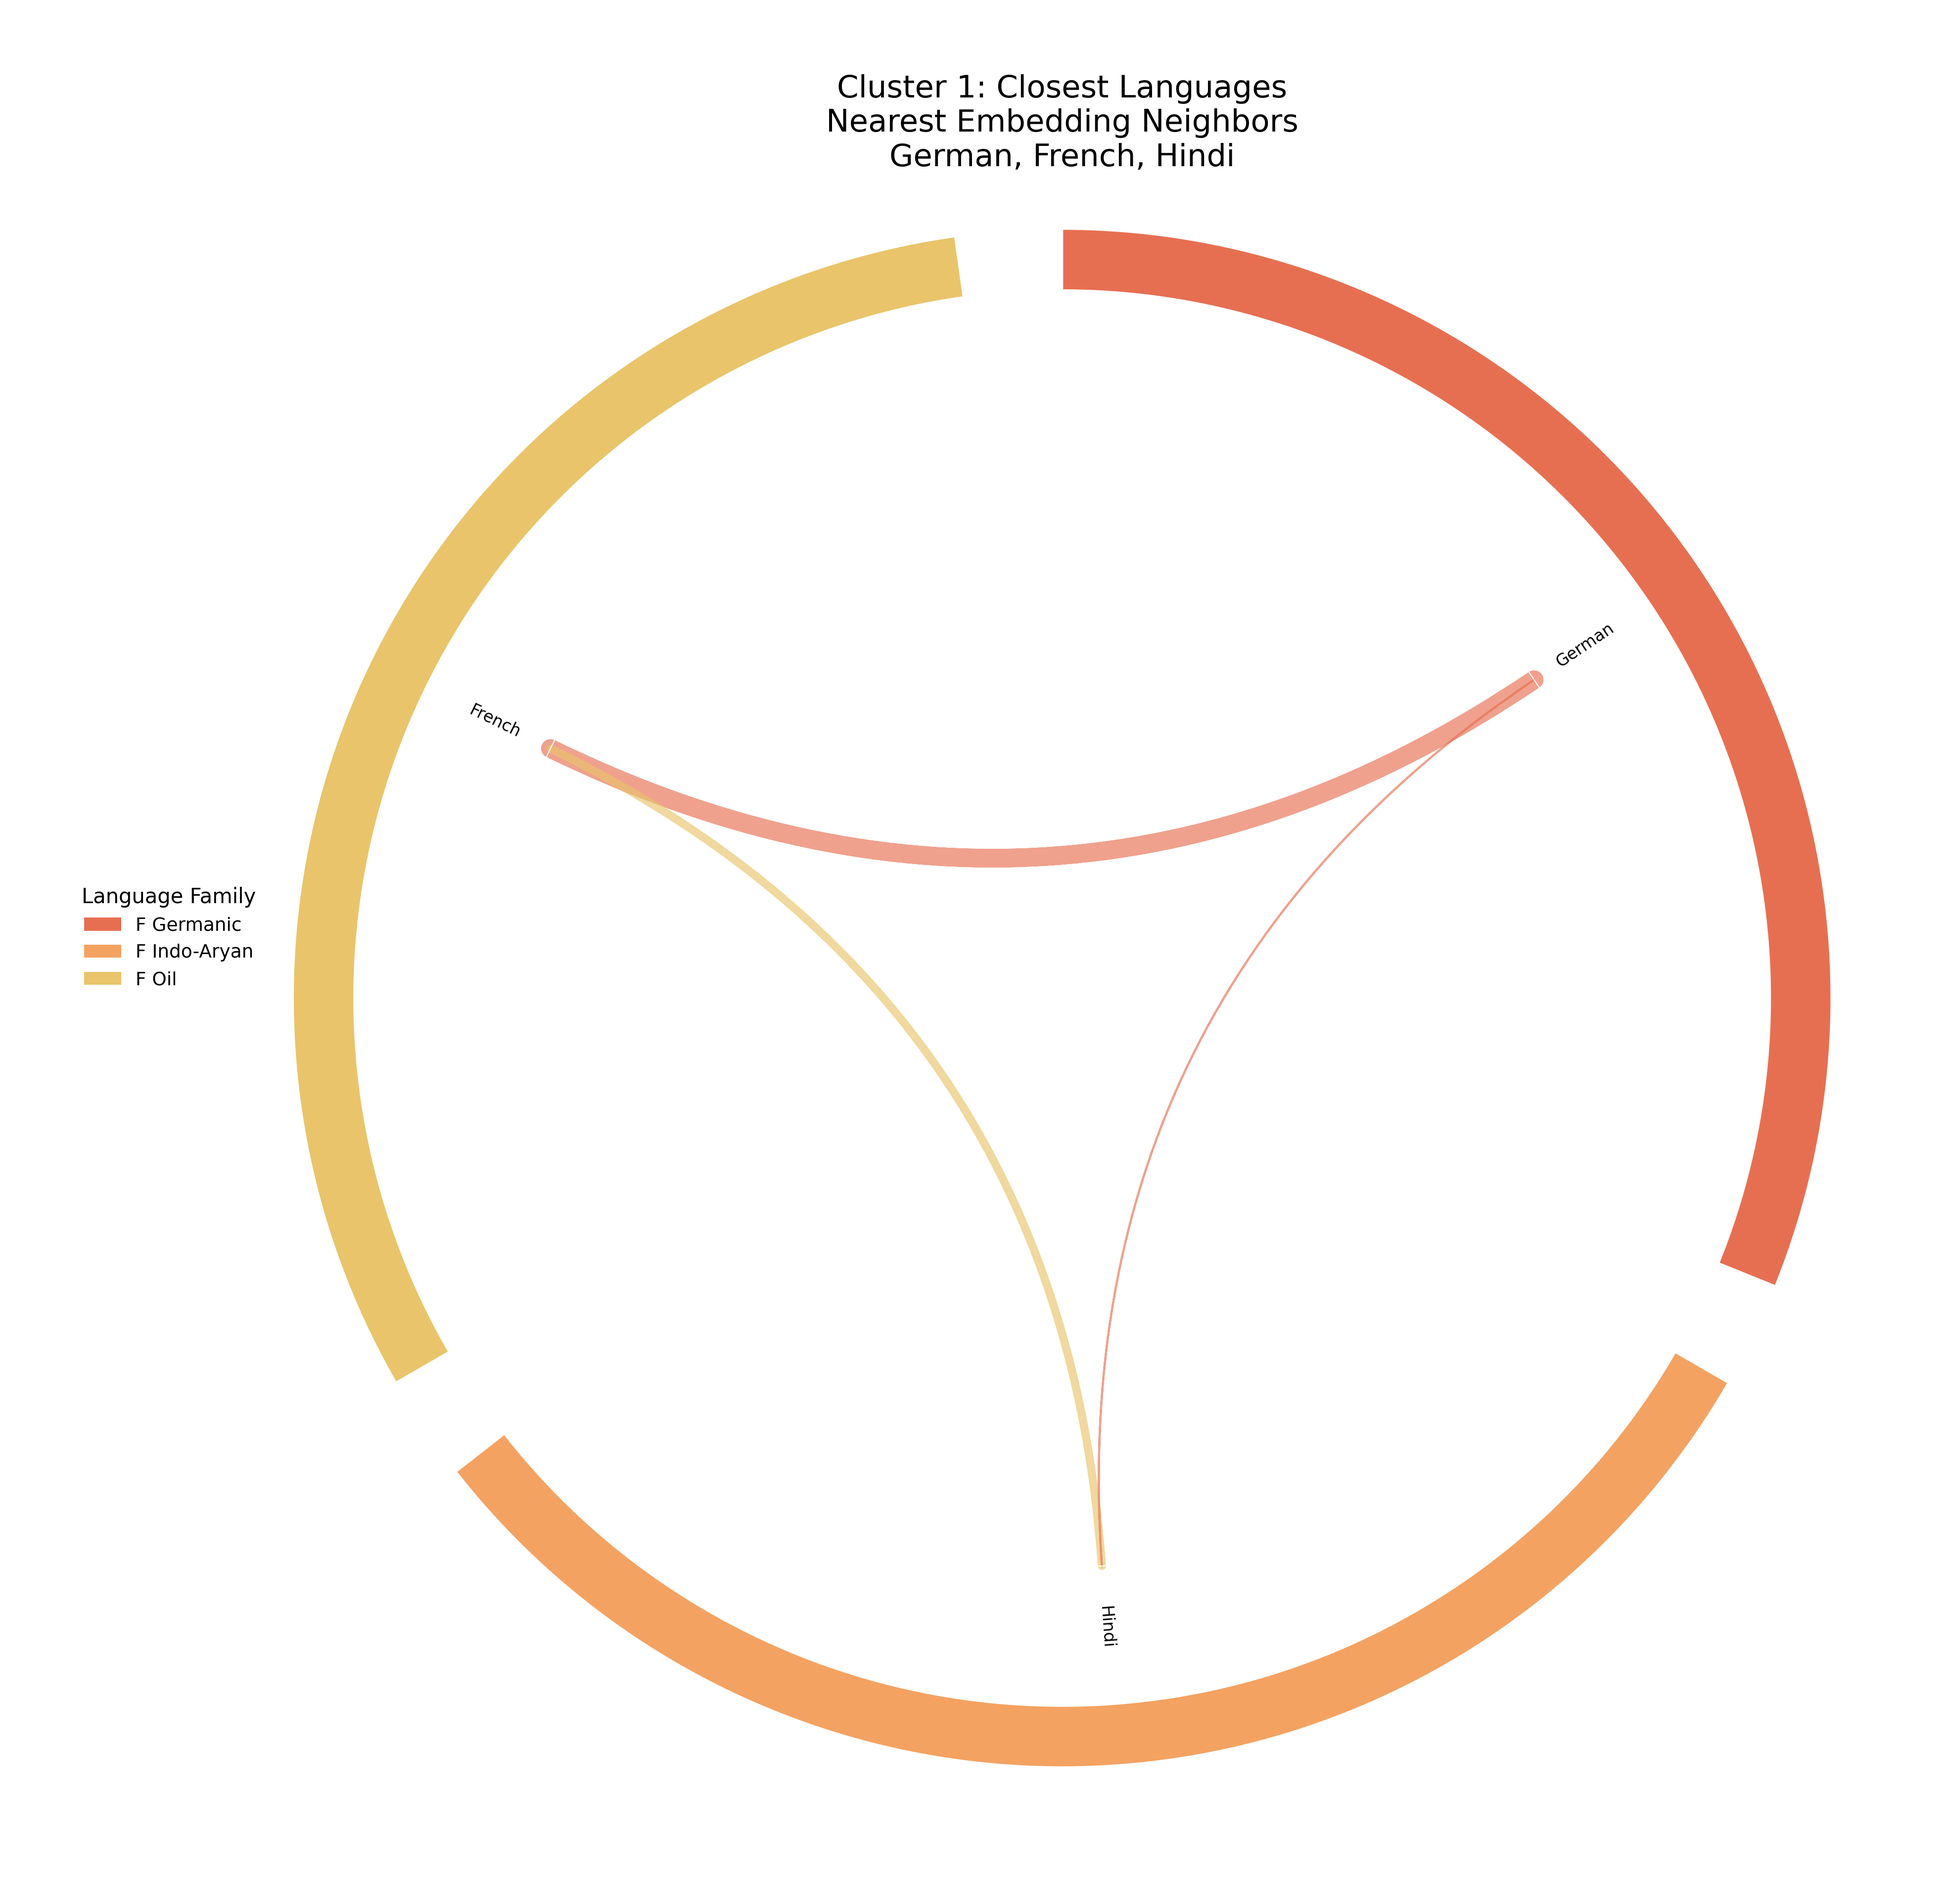
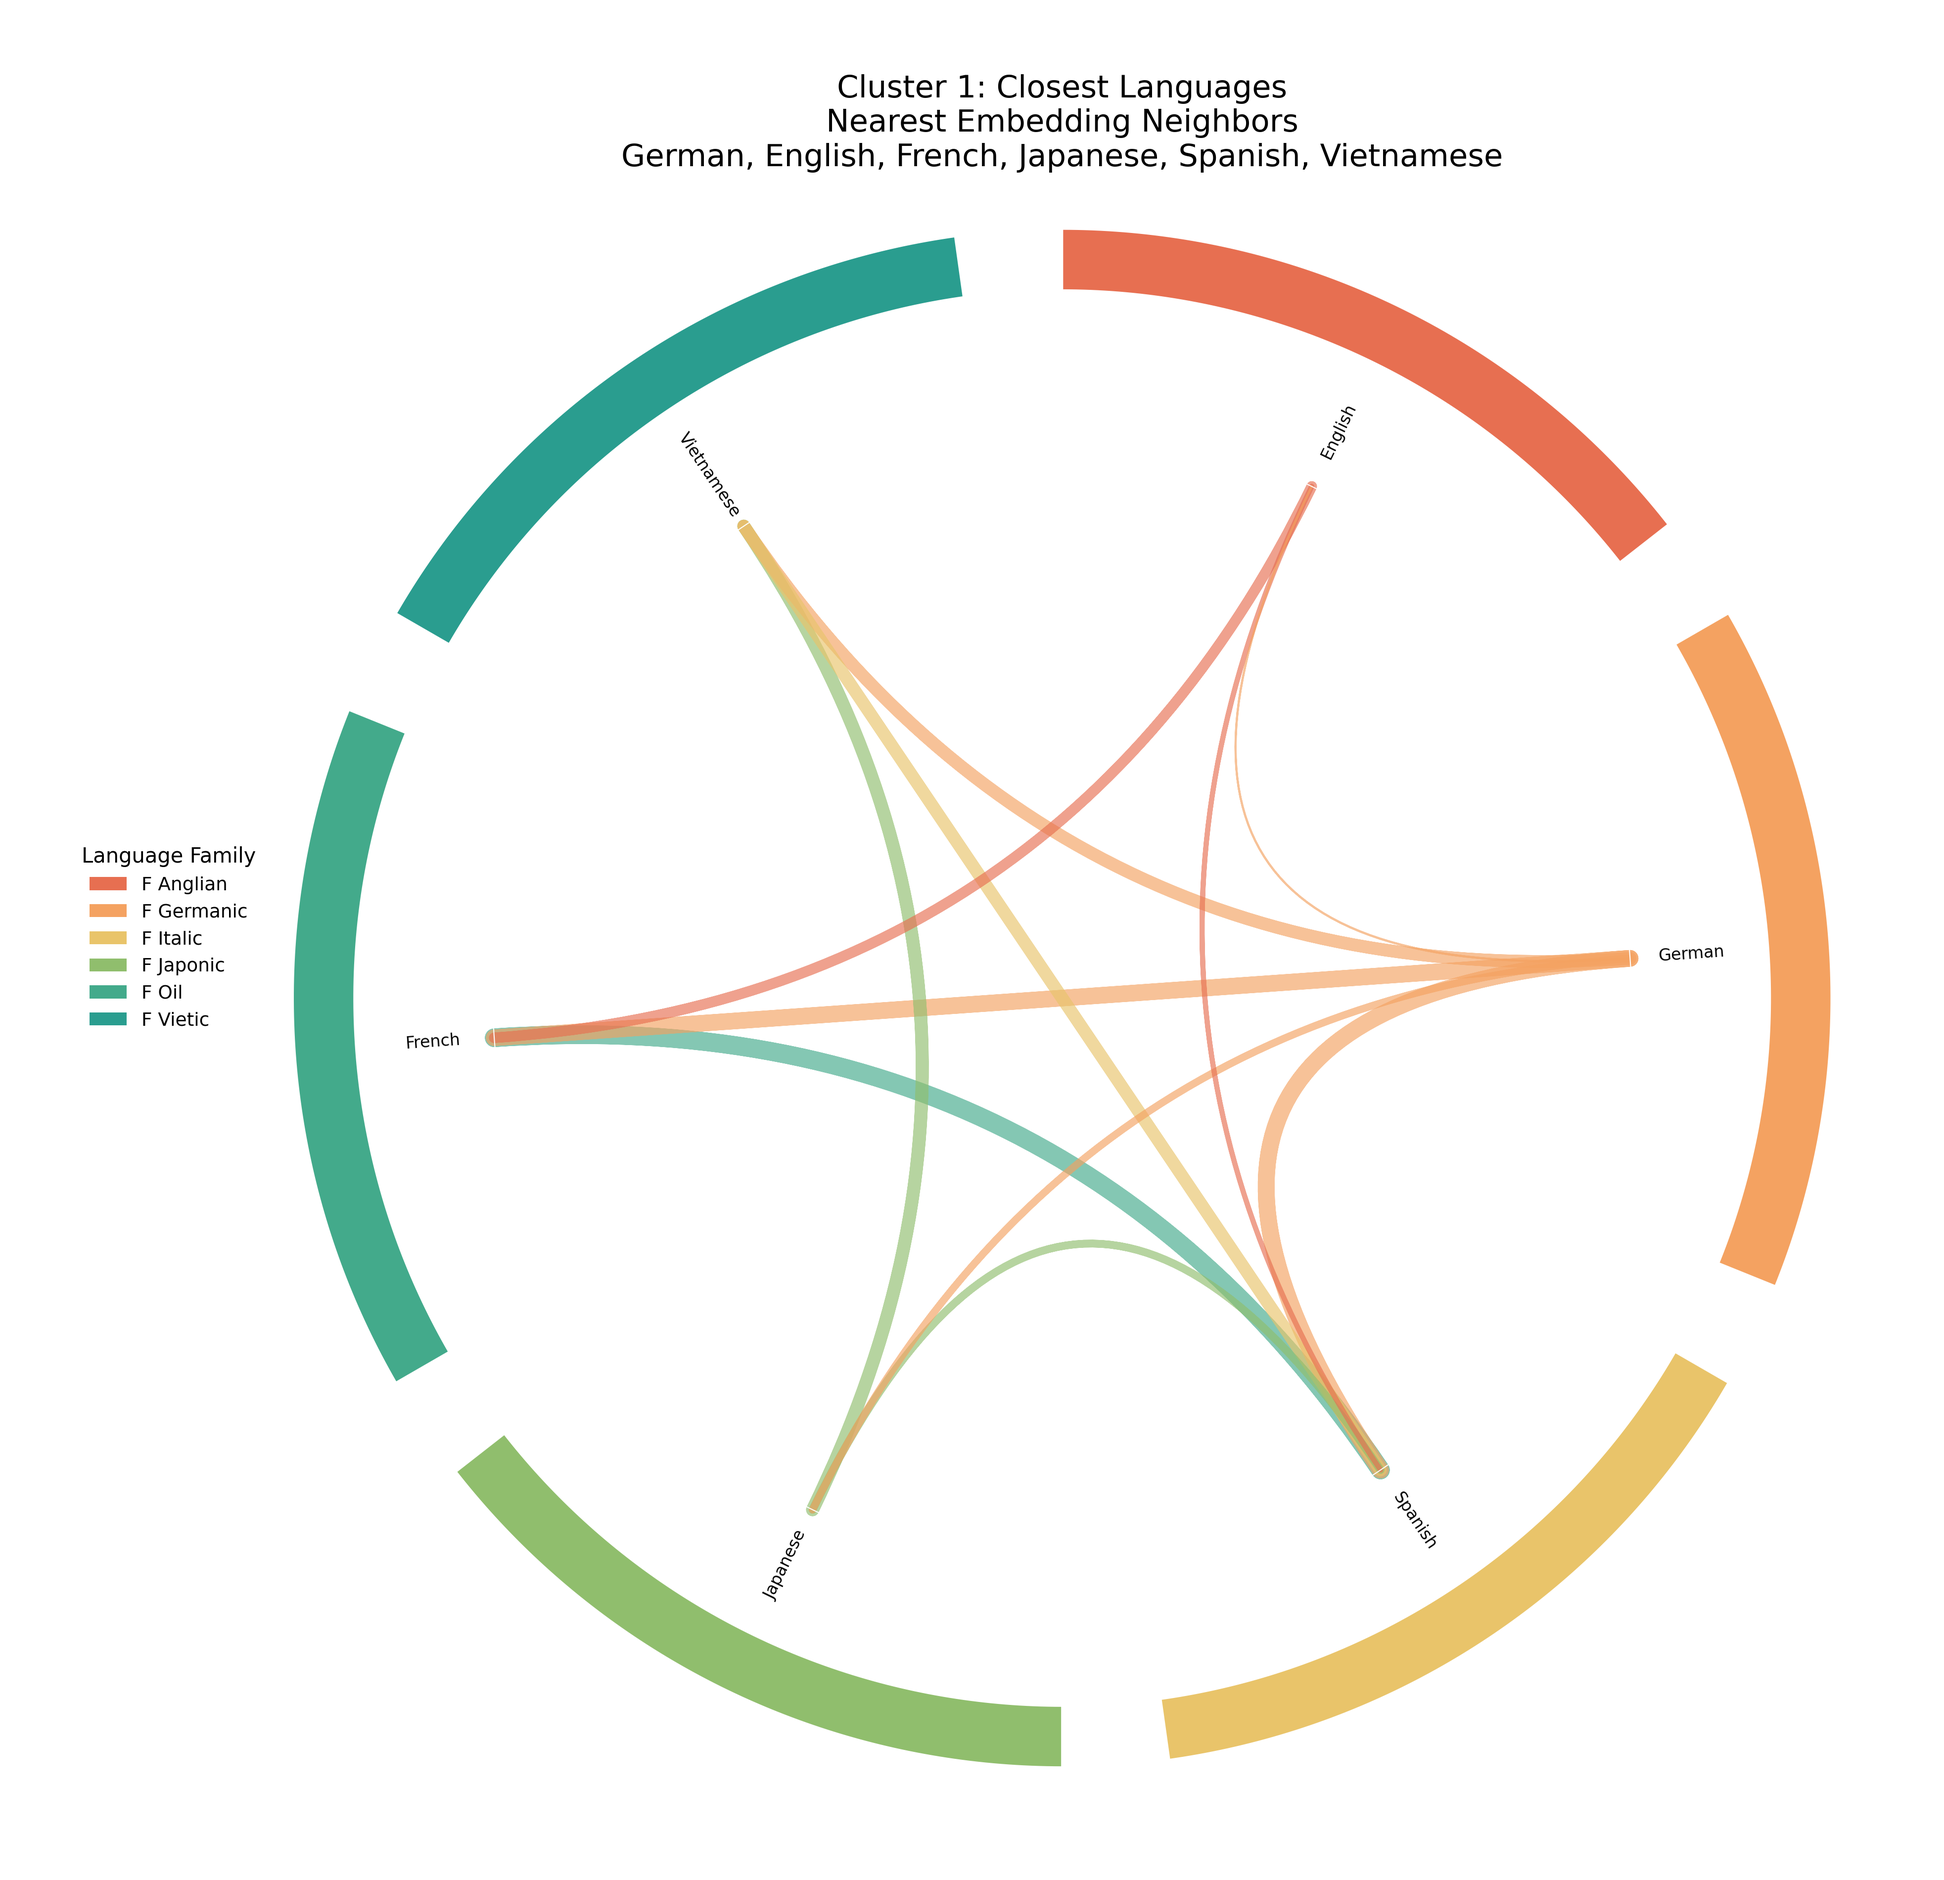
update to larger example cluster

diff --git a/language_similarity_graphics/circle_visualization/nllb_geo_chord.py b/language_similarity_graphics/circle_visualization/nllb_geo_chord.py
@@ -111,8 +111,8 @@ def build_distance_df_from_embedding_csv(csv_path):
             f"No embedding columns starting with 'dim' were found in {csv_path}."
         )
 
-    # Your exported CSV uses full NLLB/FLORES codes in the iso3 column,
-    # e.g. deu_Latn, fra_Latn, hin_Deva. Collapse them to base ISO3.
+    # Your exported file uses full language codes like deu_Latn, fra_Latn, hin_Deva
+    # even though the column is called "iso3". Collapse them to base ISO3.
     codes = df["iso3"].astype(str).str.split("_").str[0].tolist()
 
     X = df[dim_cols].to_numpy(dtype=float)
@@ -450,7 +450,6 @@ def main():
     print(f"Embedding rows: {len(embedding_df)}")
     print(f"Embedding languages: {embedding_df['iso3_base'].tolist()}")
 
-    # Keep only languages that exist in both the embedding CSV and lang2vec/FLORES mapping
     available_ids = [x for x in distance_df.index if x in usable_iso3]
     distance_df = distance_df.loc[available_ids, available_ids]
 
@@ -543,7 +542,6 @@ def main():
         if len(cluster_iso3) >= 2:
             print(f"  cluster_{cluster_num:02d}_nearest.png")
             print(f"  cluster_{cluster_num:02d}_nearest_edges.csv")
-
 
 if __name__ == "__main__":
     main()
